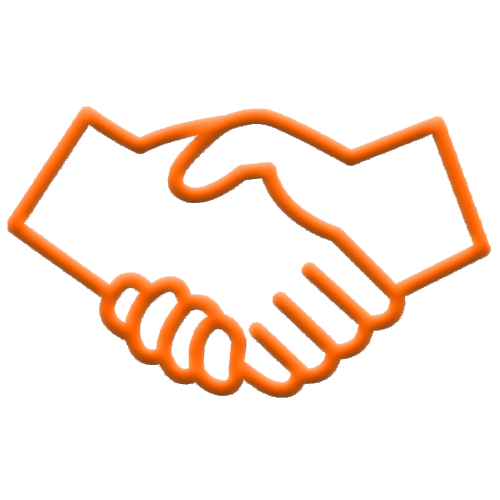
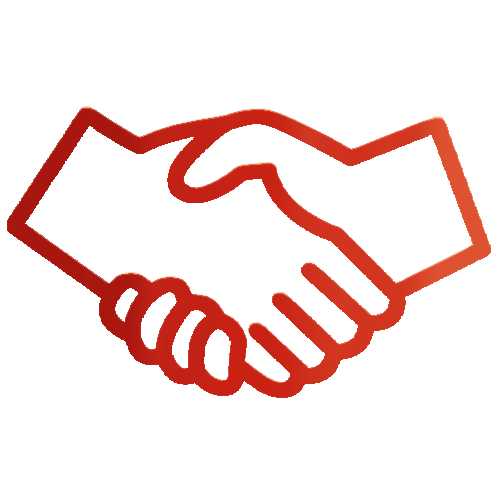
att

Changed region(s): [[0.0, 0.21, 0.99, 0.81]]

diff --git a/index.html b/index.html
@@ -57,11 +57,11 @@
         <div class="row">
           <div class="col-xs-12 col-sm-12 col-md-12 col-lg-12">
             <br><br><br>
-            <h3 style="text-align: center; text-transform: uppercase; background: linear-gradient(to right, #ff6300 35%, #fff 85%); -webkit-background-clip: text;	-webkit-text-fill-color: transparent;">NOSSA PROPOSTA</h3>
+            <h3 style="text-align: center; text-transform: uppercase; background: linear-gradient(to right, #be040a 35%, #d64529 60%); -webkit-background-clip: text;	-webkit-text-fill-color: transparent;">NOSSA PROPOSTA</h3>
             <br>
           </div>
           <div class="col-xs-12 col-sm-12 col-md-7 col-lg-7 mt-3 acreditamos">
-            <p>Acreditamos que o seu conhecimento pode ser usado para a <b style="background: linear-gradient(to right, #ff6300 0%, #fff 170%); -webkit-background-clip: text;	-webkit-text-fill-color: transparent;">criação de produtos digitais</b> e estamos dispostos a te ajudar em tudo que for necessário !</p>
+            <p>Acreditamos que o seu conhecimento pode ser usado para a <b style="background: linear-gradient(to right, #be040a 0%, #d64529 100%); -webkit-background-clip: text;	-webkit-text-fill-color: transparent;">criação de produtos digitais</b> e estamos dispostos a te ajudar em tudo que for necessário !</p>
           </div>
           <div class="col-xs-12 col-sm-12 col-md-5 col-lg-5 ajudamos">
             <center><img src="img/ajuda.png" width="80%"></center>
@@ -115,7 +115,7 @@
           <div class="row">
             <div class="col-xs-12 col-sm-12 col-md-12 col-lg-12">
             <br><br><br>
-            <h3 style="text-align: center; text-transform: uppercase; background: linear-gradient(to right, #ff6300 40%, #fff 90%); -webkit-background-clip: text;	-webkit-text-fill-color: transparent;">NOSSO TRABALHO</h3> <br>
+            <h3 style="text-align: center; text-transform: uppercase; background: linear-gradient(to right, #be040a 35%, #d64529 60%); -webkit-background-clip: text;	-webkit-text-fill-color: transparent;">NOSSO TRABALHO</h3> <br>
           </div>
           <div class="col-xs-12 col-sm-12 col-md-4 col-lg-4">
             <h5 style="color: #fff; text-align: center; margin-top:20px;">VENDAS</h5> <br>
@@ -145,7 +145,7 @@
     <section id="frase">
   		<div class="banner-content">
         <br>
-        <p style="color:#ff6300;"><b>“Quer ir rápido vá sozinho.<br> Quer ir longe vá acompanhado!”</b></p>
+        <p style="color:#c81f17;"><b>“Quer ir rápido vá sozinho.<br> Quer ir longe vá acompanhado!”</b></p>
         <br>
   		</div>
   	</section>
@@ -156,17 +156,17 @@
 		<div class="container"> <br><br><br>
       <div class="row">
         <div class="col-xs-12 col-sm-12 col-md-12 col-lg-12">
-          <h3 style="text-align: center; text-transform: uppercase; background: linear-gradient(to right, #ff6300 40%, #fff 90%); -webkit-background-clip: text;	-webkit-text-fill-color: transparent;">CONTATOS</h3> <br><br>
+          <h3 style="text-align: center; text-transform: uppercase; background: linear-gradient(to right, #be040a 40%, #d64529 55%); -webkit-background-clip: text;	-webkit-text-fill-color: transparent;">CONTATOS</h3> <br><br>
         </div>
         <div class="col-xs-12 col-sm-12 col-md-6 col-lg-6 whatsapp">
           <center><img src="img/mail.png" width="25%"></center> <br>
-          <center> <h5 style="text-align: center; text-transform: uppercase; background: linear-gradient(to right, #ff6300 45%, #fff 70%); -webkit-background-clip: text;	-webkit-text-fill-color: transparent;">E-mail</h5> </center>
+          <center> <h5 style="text-align: center; text-transform: uppercase; background: linear-gradient(to right, #be040a 35%, #d64529 50%); -webkit-background-clip: text;	-webkit-text-fill-color: transparent;">E-mail</h5> </center>
           <center> <p style="color: silver;"> Nos mande um email quando quiser.</p> </center>
           <center> <a target="_blank" href="mailto:argelmarcosvincenzi17@gmail.com">E-MAIL</a> </center> <br><br><br>
         </div>
         <div class="col-xs-12 col-sm-12 col-md-6 col-lg-6 whatsapp">
           <center><img src="img/whats.png" width="25%"></center> <br>
-          <center> <h5 style="text-align: center; text-transform: uppercase; background: linear-gradient(to right, #ff6300 45%, #fff 70%); -webkit-background-clip: text;	-webkit-text-fill-color: transparent;">Whatsapp</h5> </center>
+          <center> <h5 style="text-align: center; text-transform: uppercase; background: linear-gradient(to right, #be040a 35%, #d64529 50%); -webkit-background-clip: text;	-webkit-text-fill-color: transparent;">Whatsapp</h5> </center>
           <center> <p style="color: silver;"> Nosso whatsapp a sua disposição.</p> </center>
           <center><a target="_blank" href="https://api.whatsapp.com/send?phone=5521994243764">MENSAGEM</a></center>
         </div>
